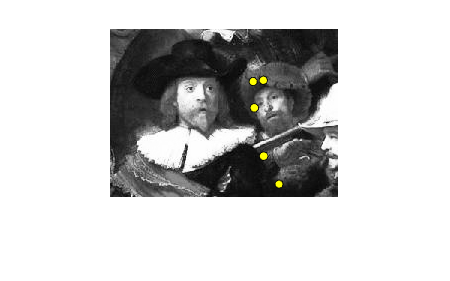
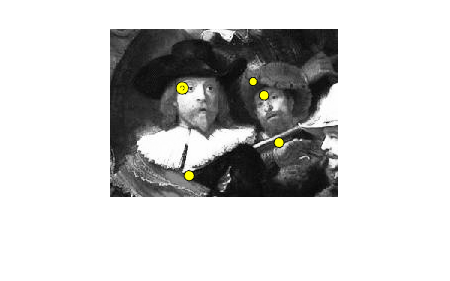
Hoi

diff --git a/test2.m b/test2.m
@@ -7,13 +7,33 @@ im2 = single(rgb2gray(im2double(imread('nachtwacht2.jpg'))));
 [~, length] = size(matches);
 selF1 = zeros(4, length);
 selF2 = zeros(4, length);
+
+scores(2,:) = 1:length;
+newMatches = zeros(2, length);
+tempScores = scores;
+
 for i=1:length
-    selF1(:,i)=F1(:,matches(1,i));
-    selF2(:,i)=F2(:,matches(2,i));
+    [~, newLength] = size(tempScores);
+    limit = 0;
+    index = 0;
+    for j=1:newLength
+        if(tempScores(1,j)>limit)
+            index = j;
+            limit = tempScores(1,j);
+        end
+    end
+    newMatches(:,i) = matches(:,index);
+    tempScores(:,index) = [];
 end
 
-xy = selF1(1:2,3:6);
-xaya = selF2(1:2,3:6);
+for i=1:length
+    selF1(:,i)=F1(:,newMatches(1,i));
+    selF2(:,i)=F2(:,newMatches(2,i));
+end
+
+figure
+xy = selF1(1:2,1:4);
+xaya = selF2(1:2,1:4);
 
 P = createProjectionMatrix(xy', xaya')';
 T = maketform('projective', P);

diff --git a/test3.m b/test3.m
@@ -7,11 +7,27 @@ im2 = single(rgb2gray(im2double(imread('nachtwacht2.jpg'))));
 [~, length] = size(matches);
 selF1 = zeros(4, length);
 selF2 = zeros(4, length);
+scores(2,:) = 1:length;
+newMatches = zeros(2, length);
+
 for i=1:length
-    selF1(:,i)=F1(:,matches(1,i));
-    selF2(:,i)=F2(:,matches(2,i));
+    [~, newLength] = size(scores);
+    limit = 0;
+    index = 0;
+    for j=1:newLength
+        if(scores(1,j)>limit)
+            index = j;
+            limit = scores(1,j);
+        end
+    end
+    newMatches(:,i) = matches(:,index);
+    scores(:,index) = [];
 end
 
+for i=1:length
+    selF1(:,i)=F1(:,newMatches(1,i));
+    selF2(:,i)=F2(:,newMatches(2,i));
+end
 figure;
 imshow(im1);
 perm = randperm(size(F1,2)) ;

diff --git a/test.m b/test.m
@@ -7,9 +7,26 @@ im2 = single(rgb2gray(im2double(imread('nachtwacht2.jpg'))));
 [~, length] = size(matches);
 selF1 = zeros(4, length);
 selF2 = zeros(4, length);
+
+scores(2,:) = 1:length;
+newMatches = zeros(2, length);
 for i=1:length
-    selF1(:,i)=F1(:,matches(1,i));
-    selF2(:,i)=F2(:,matches(2,i));
+    [~, newLength] = size(scores);
+    limit = 0;
+    index = 0;
+    for j=1:newLength
+        if(scores(1,j)>limit)
+            index = j;
+            limit = scores(1,j);
+        end
+    end
+    newMatches(:,i) = matches(:,index);
+    scores(:,index) = [];
+end
+
+for i=1:length
+    selF1(:,i)=F1(:,newMatches(1,i));
+    selF2(:,i)=F2(:,newMatches(2,i));
 end
 
 figure;
